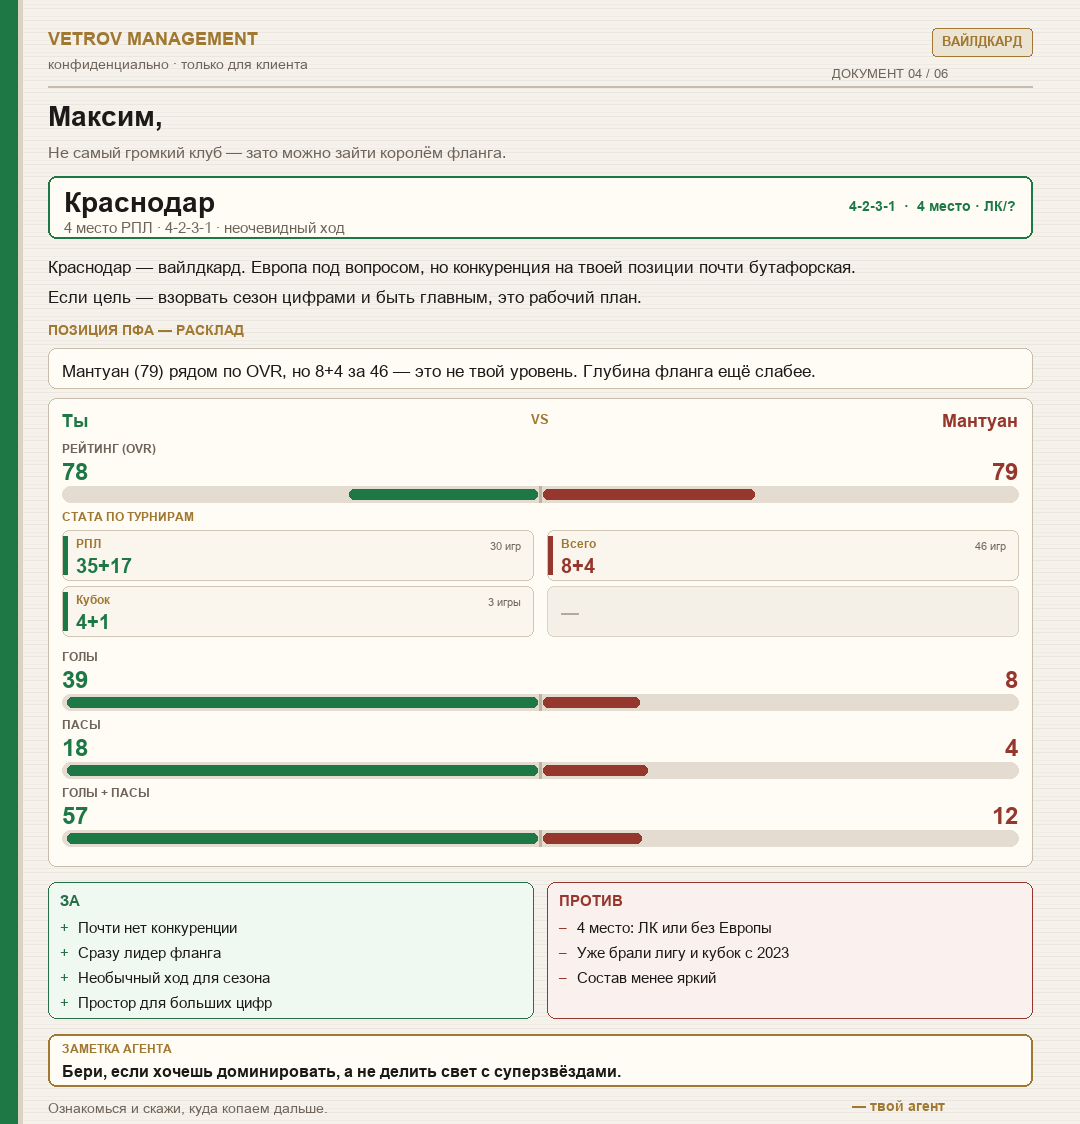
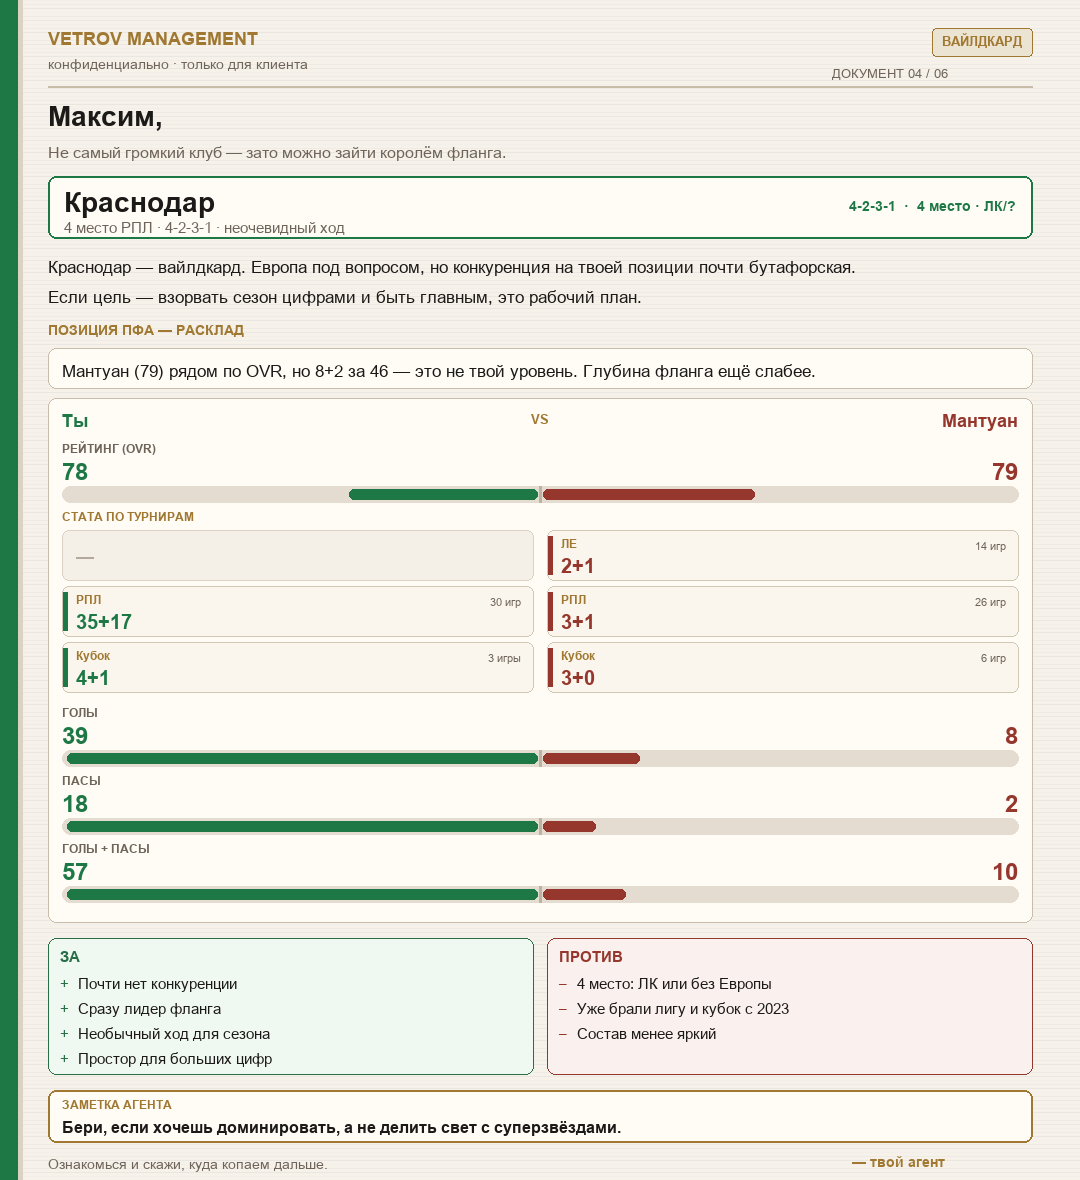
Fix Mantuan season split: LE / RPL / Cup and 8+2 total.

Changed region(s): [[0.0306, 0.0, 0.9472, 0.9964]]

diff --git a/career_poll_reports/generate_career_poll_reports.py b/career_poll_reports/generate_career_poll_reports.py
@@ -596,7 +596,7 @@ DOSSIERS = [
             "Если цель — взорвать сезон цифрами и быть главным, это рабочий план.",
         ],
         "competition_lines": [
-            "Мантуан (79) рядом по OVR, но 8+4 за 46 — это не твой уровень. Глубина фланга ещё слабее.",
+            "Мантуан (79) рядом по OVR, но 8+2 за 46 — это не твой уровень. Глубина фланга ещё слабее.",
         ],
         "vs": (
             YOU_VS,
@@ -604,10 +604,12 @@ DOSSIERS = [
                 "name": "Мантуан",
                 "ovr": "79",
                 "g": 8,
-                "a": 4,
-                "ga": 12,
+                "a": 2,
+                "ga": 10,
                 "tours": [
-                    {"comp": "Всего", "stat": "8+4", "apps": "46 игр"},
+                    {"comp": "ЛЕ", "stat": "2+1", "apps": "14 игр"},
+                    {"comp": "РПЛ", "stat": "3+1", "apps": "26 игр"},
+                    {"comp": "Кубок", "stat": "3+0", "apps": "6 игр"},
                 ],
             },
         ),
